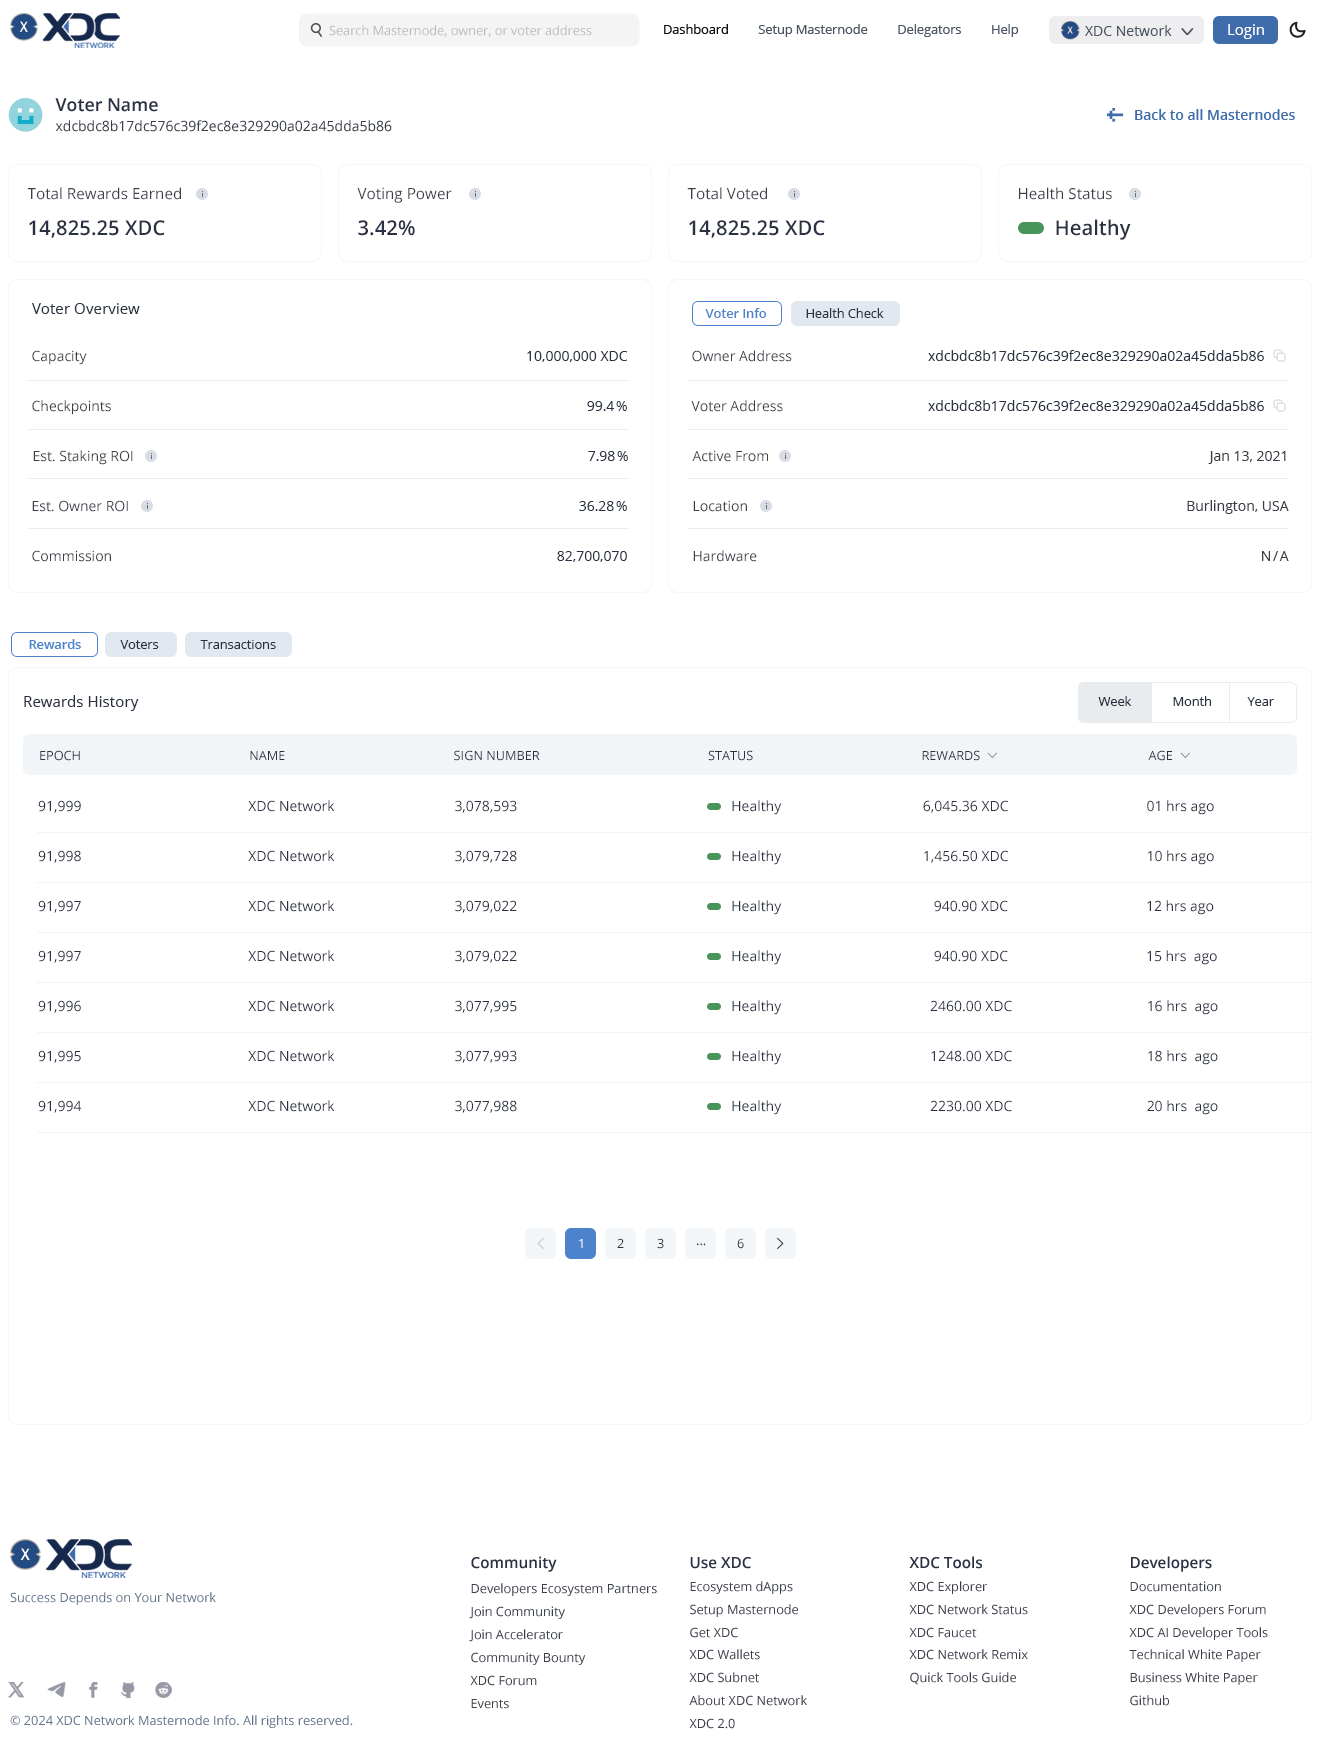
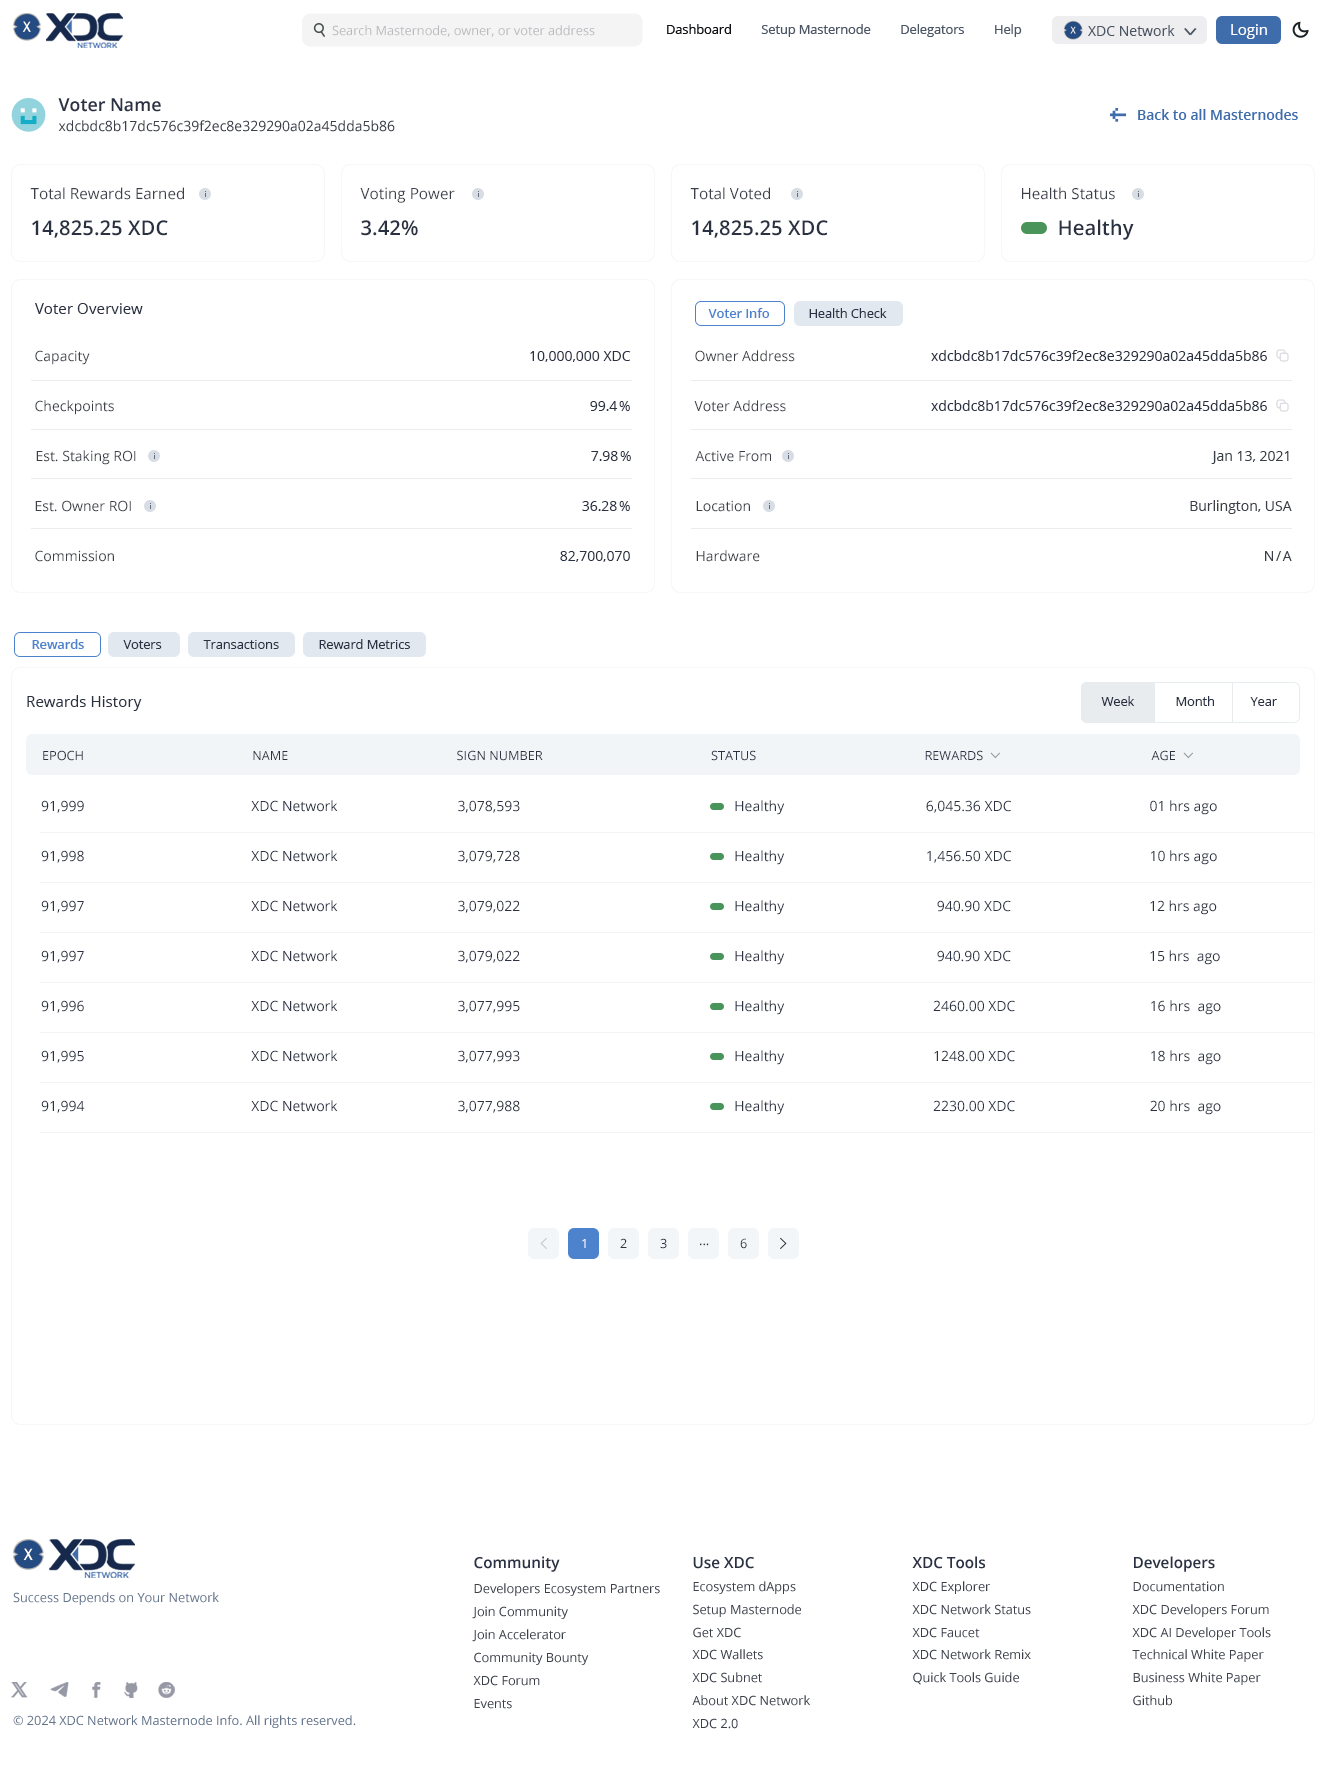
Update  mn layout designs

diff --git a/xdcnetworkmasternodelayout/index2-voter-rewards-metrics.html b/xdcnetworkmasternodelayout/index2-voter-rewards-metrics.html
@@ -5,7 +5,7 @@
 <title>XDC Network Masternode</title>
 <style type="text/css">
 body {
-	background-image: url(images/bg.jpg);
+	background-image: url(images/bg2.jpg);
 	background-repeat: repeat-x;
 	margin: 0px;
 }
@@ -15,9 +15,9 @@ body {
 <body>
 <table width="100%" border="00" cellspacing="00" cellpadding="00">
   <tr>
-    <td><table width="1319" border="00" align="center" cellpadding="00" cellspacing="00">
+    <td><table width="1320" border="00" align="center" cellpadding="00" cellspacing="00">
       <tr>
-        <td><img src="images/layout.png" width="1319" height="2178" border="0" /></td>
+        <td><img src="images/inside-voter-reward-metrics.png" width="1327" height="1770" border="0" /></td>
       </tr>
     </table></td>
   </tr>

diff --git a/xdcnetworkmasternodelayout/index2-geographical-locations.html b/xdcnetworkmasternodelayout/index2-geographical-locations.html
@@ -17,7 +17,7 @@ body {
   <tr>
     <td><table width="1320" border="00" align="center" cellpadding="00" cellspacing="00">
       <tr>
-        <td><img src="images/inside-mn-transactions.png" width="1320" height="1762" border="0" /></td>
+        <td><img src="images/inside-geographical-locations.png" width="1327" height="1090" border="0" /></td>
       </tr>
     </table></td>
   </tr>

diff --git a/xdcnetworkmasternodelayout/index2-validator-transactions.html b/xdcnetworkmasternodelayout/index2-validator-transactions.html
@@ -17,7 +17,7 @@ body {
   <tr>
     <td><table width="1320" border="00" align="center" cellpadding="00" cellspacing="00">
       <tr>
-        <td><img src="images/inside-voter-rewards.png" width="1327" height="1770" border="0" /></td>
+        <td><img src="images/inside-validator-transactions.png" width="1327" height="1770" border="0" /></td>
       </tr>
     </table></td>
   </tr>

diff --git a/xdcnetworkmasternodelayout/index2-validator-rewards-metrics.html b/xdcnetworkmasternodelayout/index2-validator-rewards-metrics.html
@@ -17,7 +17,7 @@ body {
   <tr>
     <td><table width="1320" border="00" align="center" cellpadding="00" cellspacing="00">
       <tr>
-        <td><img src="images/inside-mn-rewards.png" width="1320" height="1762" border="0" /></td>
+        <td><img src="images/inside-validator-reward-metrics.png" width="1327" height="1770" border="0" /></td>
       </tr>
     </table></td>
   </tr>

diff --git a/xdcnetworkmasternodelayout/index2-validator-rewards.html b/xdcnetworkmasternodelayout/index2-validator-rewards.html
@@ -17,7 +17,7 @@ body {
   <tr>
     <td><table width="1320" border="00" align="center" cellpadding="00" cellspacing="00">
       <tr>
-        <td><img src="images/inside-voter-rewards.png" width="1327" height="1770" border="0" /></td>
+        <td><img src="images/inside-validator-rewards.png" width="1327" height="1770" border="0" /></td>
       </tr>
     </table></td>
   </tr>

diff --git a/xdcnetworkmasternodelayout/index2-validator-voters.html b/xdcnetworkmasternodelayout/index2-validator-voters.html
@@ -17,7 +17,7 @@ body {
   <tr>
     <td><table width="1320" border="00" align="center" cellpadding="00" cellspacing="00">
       <tr>
-        <td><img src="images/inside-mn-voters.png" width="1320" height="1762" border="0" /></td>
+        <td><img src="images/inside-validator-voters.png" width="1327" height="1770" border="0" /></td>
       </tr>
     </table></td>
   </tr>

diff --git a/xdcnetworkmasternodelayout/index2.html b/xdcnetworkmasternodelayout/index2.html
@@ -17,7 +17,7 @@ body {
   <tr>
     <td><table width="1320" border="00" align="center" cellpadding="00" cellspacing="00">
       <tr>
-        <td><img src="images/layout2.png" width="1320" height="1762" border="0" /></td>
+        <td><img src="images/layout2.png" width="1327" height="1770" border="0" /></td>
       </tr>
     </table></td>
   </tr>

diff --git a/xdcnetworkmasternodelayout/index2-login.html b/xdcnetworkmasternodelayout/index2-login.html
@@ -17,7 +17,7 @@ body {
   <tr>
     <td><table width="1320" border="00" align="center" cellpadding="00" cellspacing="00">
       <tr>
-        <td><img src="images/login.png" width="1320" height="1762" border="0" /></td>
+        <td><img src="images/login.png" width="1327" height="1770" border="0" /></td>
       </tr>
     </table></td>
   </tr>
